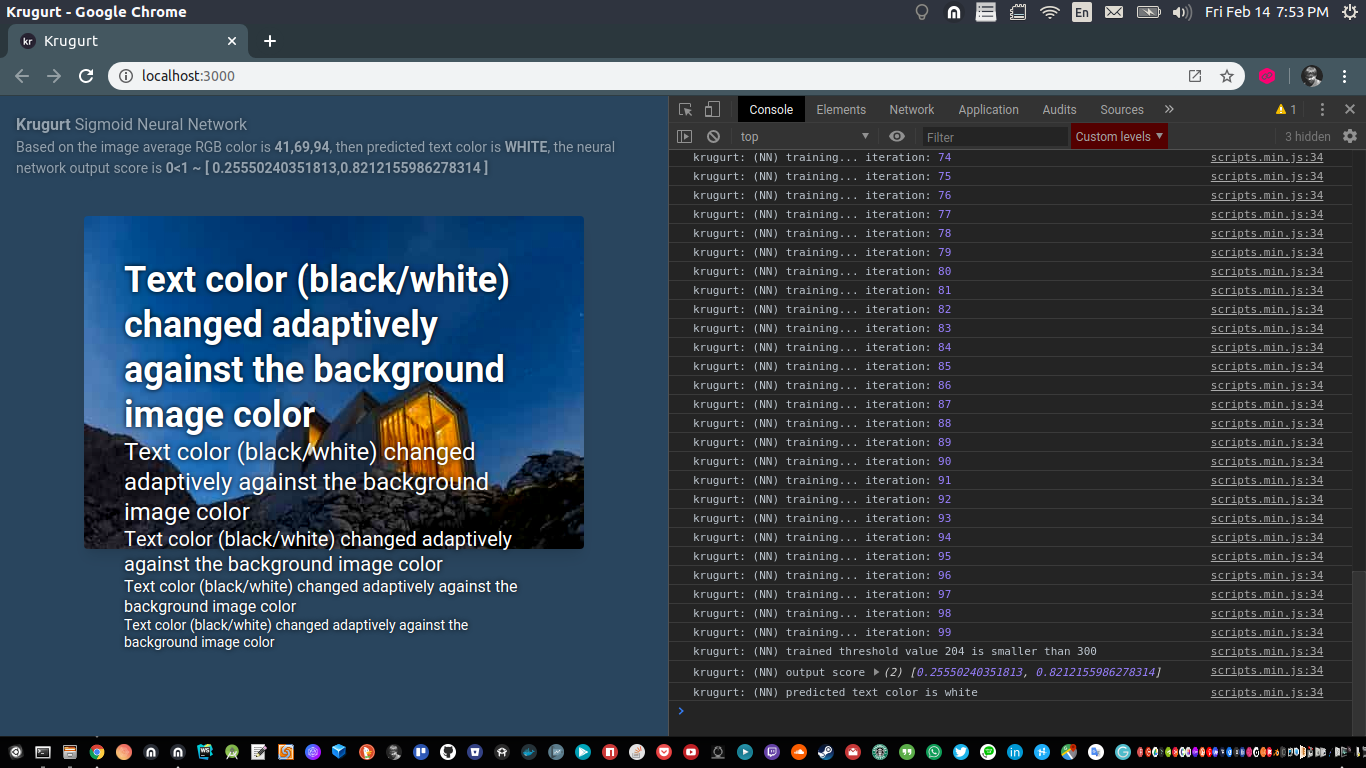
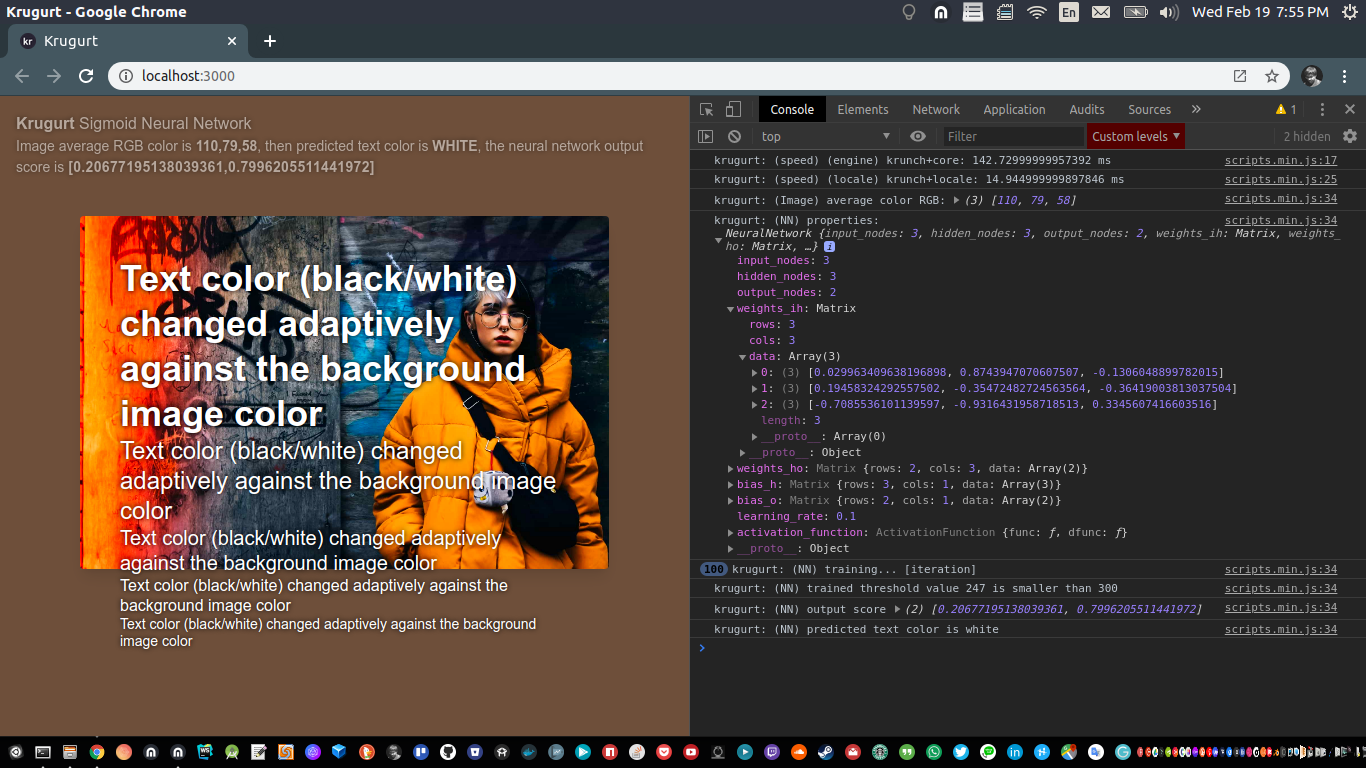
update screenshots

diff --git a/src/views/index.html b/src/views/index.html
@@ -162,8 +162,8 @@
       <y class="relative p-10">
 
         <img class="adaptive w-full h-auto rounded shadow-lg overflow-hidden"
-             src="assets/image/low/dummy/pexels-photo-734428.jpeg"
-             data-src="assets/image/high/dummy/pexels-photo-734428.jpeg"
+             src="assets/image/low/dummy/pexels-photo-890035.jpeg"
+             data-src="assets/image/high/dummy/pexels-photo-890035.jpeg"
              id="imageInput">
 
         <y class="absolute top-0 left-0 p-20">
